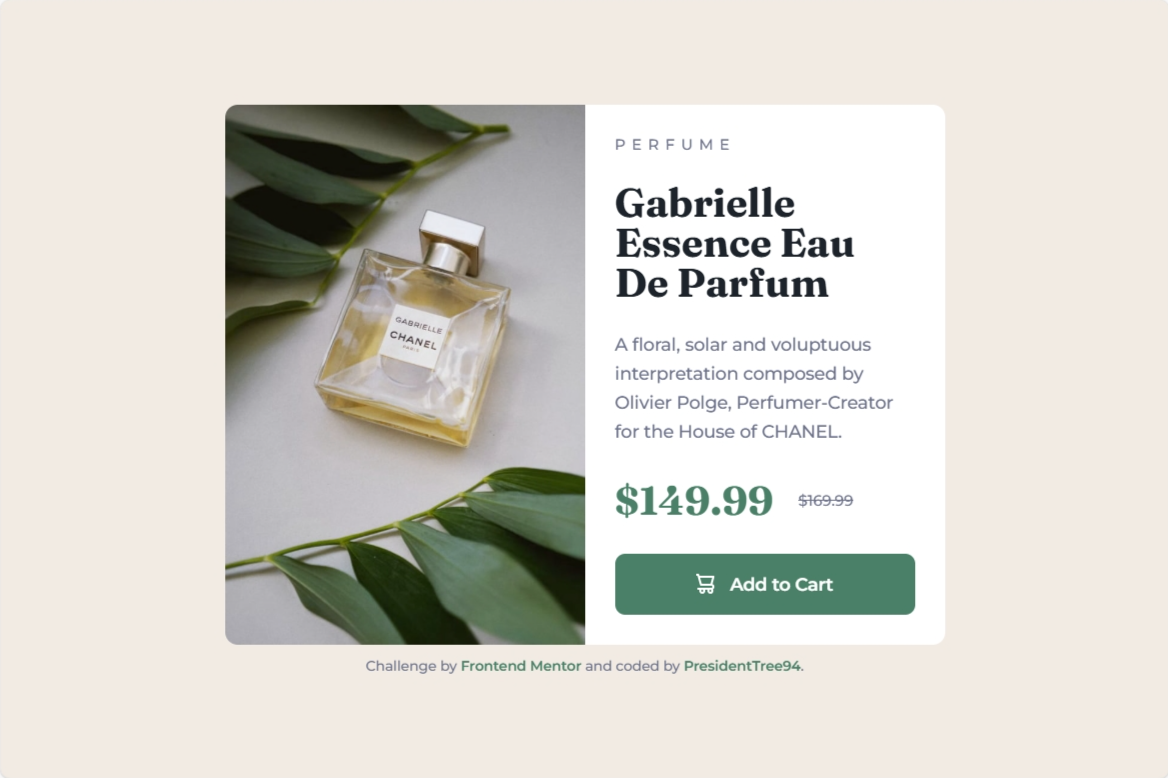
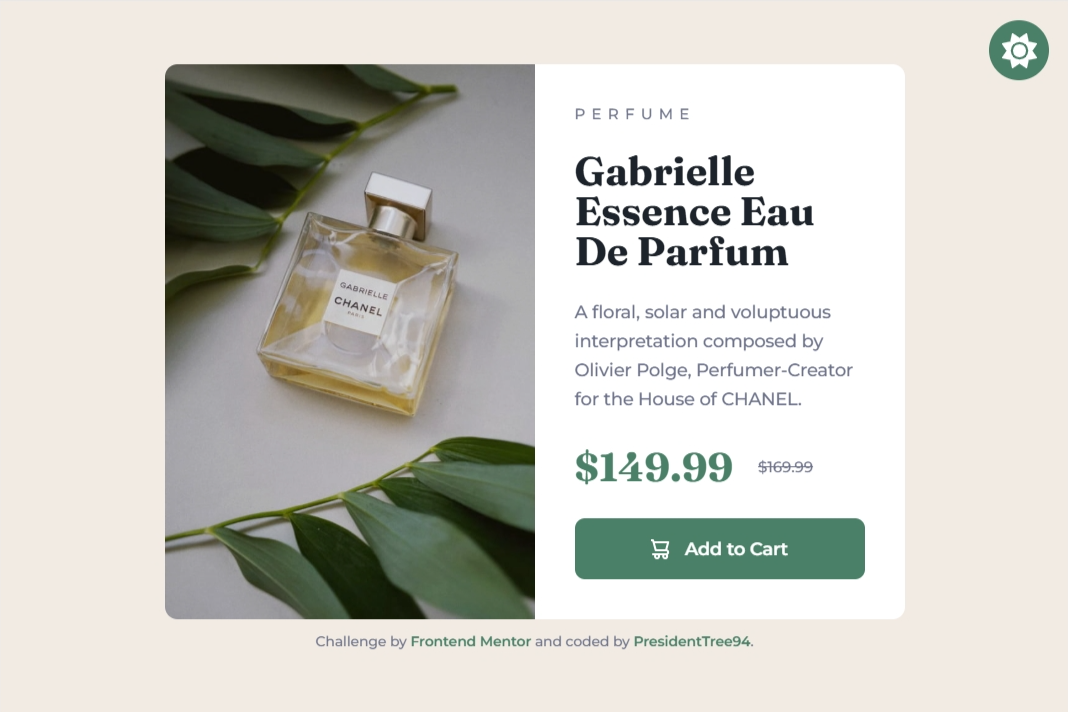
Add files via upload

Changed region(s): [[0.1545, 0.0927, 0.8652, 0.927], [0.5253, 0.2163, 0.7725, 0.4017], [0.927, 0.0309, 0.9888, 0.1236]]

diff --git a/alt-mode/toggle.js b/alt-mode/toggle.js
@@ -1,0 +1,54 @@
+//Find the toggle button and generate an empty SVG
+const toggleButton = document.getElementById("toggle");
+const icon = document.createElementNS("http://www.w3.org/2000/svg", "svg");
+icon.setAttribute("xmlns", "http://www.w3.org/2000/svg");
+const path = document.createElementNS("http://www.w3.org/2000/svg", "path");
+icon.appendChild(path);
+toggleButton.appendChild(icon);
+
+//Constants for the local storage key, mode class, and icons
+const ALT_MODE_KEY = "alt-mode";
+const ALT_MODE_CLASS = "altMode";
+const MOON_ICON = {
+  viewBox: "0 0 384 512",
+  path: "M223.5 32C100 32 0 132.3 0 256S100 480 223.5 480c60.6 0 115.5-24.2 155.8-63.4c5-4.9 6.3-12.5 3.1-18.7s-10.1-9.7-17-8.5c-9.8 1.7-19.8 2.6-30.1 2.6c-96.9 0-175.5-78.8-175.5-176c0-65.8 36-123.1 89.3-153.3c6.1-3.5 9.2-10.5 7.7-17.3s-7.3-11.9-14.3-12.5c-6.3-.5-12.6-.8-19-.8z"
+};
+const SUN_ICON = {
+  viewBox: "0 0 512 512",
+  path: "M361.5 1.2c5 2.1 8.6 6.6 9.6 11.9L391 121l107.9 19.8c5.3 1 9.8 4.6 11.9 9.6s1.5 10.7-1.6 15.2L446.9 256l62.3 90.3c3.1 4.5 3.7 10.2 1.6 15.2s-6.6 8.6-11.9 9.6L391 391 371.1 498.9c-1 5.3-4.6 9.8-9.6 11.9s-10.7 1.5-15.2-1.6L256 446.9l-90.3 62.3c-4.5 3.1-10.2 3.7-15.2 1.6s-8.6-6.6-9.6-11.9L121 391 13.1 371.1c-5.3-1-9.8-4.6-11.9-9.6s-1.5-10.7 1.6-15.2L65.1 256 2.8 165.7c-3.1-4.5-3.7-10.2-1.6-15.2s6.6-8.6 11.9-9.6L121 121 140.9 13.1c1-5.3 4.6-9.8 9.6-11.9s10.7-1.5 15.2 1.6L256 65.1 346.3 2.8c4.5-3.1 10.2-3.7 15.2-1.6zM160 256a96 96 0 1 1 192 0 96 96 0 1 1 -192 0zm224 0a128 128 0 1 0 -256 0 128 128 0 1 0 256 0z"
+};
+
+//Sets the icon to represent the mode depending on data-default
+function setIcon(isAltMode) {
+  const defaultMode = toggleButton.dataset.default;
+  const iconData = defaultMode === "moon" ? isAltMode ? SUN_ICON : MOON_ICON : 
+  defaultMode === "sun" ? isAltMode ? MOON_ICON : SUN_ICON : null;
+  icon.setAttribute("viewBox", iconData.viewBox);
+  path.setAttribute("d", iconData.path);
+}
+
+//Initializes the mode, sets the current one
+function initMode() {
+  const altMode = localStorage.getItem(ALT_MODE_KEY) === "true";
+
+  if (altMode) {
+    document.body.classList.add(ALT_MODE_CLASS);
+  } else {
+    document.body.classList.remove(ALT_MODE_CLASS);
+  }
+
+  setIcon(altMode);
+}
+
+//Toggles the mode, temporarily disabling transitions (except #toggle)
+function toggleMode() {
+  document.body.classList.add("disable-transitions");
+  const altMode = document.body.classList.toggle(ALT_MODE_CLASS);
+  localStorage.setItem(ALT_MODE_KEY, altMode);
+  setIcon(altMode);
+  void document.body.offsetWidth;
+  setTimeout(() => { document.body.classList.remove("disable-transitions"); }, 10);
+}
+
+initMode();
+toggleButton.addEventListener("click", toggleMode);

diff --git a/index.html b/index.html
@@ -4,14 +4,16 @@
   <meta charset="UTF-8">
   <meta name="viewport" content="width=device-width, initial-scale=1.0">
   <link rel="icon" type="image/png" sizes="32x32" href="./images/favicon-32x32.png">
+  <link rel="stylesheet" href="style.css">
+  <link rel="stylesheet" href="alt-mode/toggle-style.css">
   <link rel="preconnect" href="https://fonts.googleapis.com">
   <link rel="preconnect" href="https://fonts.gstatic.com" crossorigin>
   <link href="https://fonts.googleapis.com/css2?family=Fraunces:ital,opsz,wght@0,9..144,100..900;1,9..144,100..900&family=Montserrat:ital,wght@0,100..900;1,100..900&display=swap" rel="stylesheet">
-  <link rel="stylesheet" href="style.css">
   <title>Frontend Mentor | Product preview card component</title>
 </head>
 <body>
   <div class="container">
+    <div id="toggle" data-default="sun"></div>
     <main>
       <section>
         <picture>
@@ -34,5 +36,6 @@
       </footer>
     </main>
   </div>
+  <script src="alt-mode/toggle.js"></script>
 </body>
 </html>

diff --git a/style.css b/style.css
@@ -7,6 +7,13 @@
   --brunswickGreen: rgb(27, 65, 51);
 }
 
+.altMode {
+  --linen: rgb(192, 185, 177);
+  --white: rgb(28, 35, 43);
+  --gunmetal: rgb(255, 255, 255);
+  --brunswickGreen: rgb(85, 153, 128);
+}
+
 * {
   margin: 0;
   padding: 0;
@@ -30,6 +37,14 @@ body {
   justify-content: center;
   align-items: center;
   overflow: hidden;
+}
+
+#toggle {
+  background-color: var(--viridian);
+}
+
+svg {
+  fill: var(--white);
 }
 
 main {
@@ -117,6 +132,10 @@ button {
   padding: 1rem 0;
   font-weight: 600;
   transition: transform 0.3s ease;
+}
+
+.altMode button {
+  color: var(--gunmetal);
 }
 
 button img {

diff --git a/alt-mode/toggle-style.css b/alt-mode/toggle-style.css
@@ -1,0 +1,25 @@
+#toggle {
+  position: fixed;
+  top: 1rem;
+  right: 1rem;
+  border-radius: 100%;
+  display: flex;
+  justify-content: center;
+  align-items: center;
+  height: 3rem;
+  width: 3rem;
+  z-index: 1;
+  transition: transform 0.3s ease;
+}
+
+#toggle:hover {
+  cursor: pointer;
+}
+
+#toggle:active {
+  transform: scale(0.9);
+}
+
+svg {
+  height: 1.75rem;
+}

diff --git a/alt-mode/README.md b/alt-mode/README.md
@@ -1,0 +1,16 @@
+# Instructions for Light/Dark Mode
+These are the instructions for how to use Light/Dark Mode in a project. The script creates a SVG, `MOON_ICON` or `SUN_ICON`, and uses it to initialize the `#toggle` button. The default SVG is determined by the value set in the `data-default` attribute. The user can select the button to toggle the mode, which toggles `.altMode` on `body`, and the mode is saved in local storage to persist.
+
+## Requirements
+- The "alt-mode" folder and all its contents:
+  - toggle-style.css
+  - toggle.js
+
+## Steps
+1. Add a `<link>` to the HTML to the path of `toggle-style.css`, under the initial stylesheet.
+2. Add a `<script>` to the HTML to the path of `toggle.js`, just before the closing tag of the `body`.
+3. Add `<div id="toggle"></div>` to the HTML, where it can be placed in the top-right of the page.
+4. Add a `data-default` attribute to `#toggle`, and set it to "sun" or "moon."
+5. Assign colors to `#toggle` and the `svg` in the CSS.
+6. Add `.altMode` to the CSS and redefine the CSS color variables.
+7. Add `.disable-transitions *:not(#toggle) { transition: none !important; }` to the CSS if transitions conflict during mode switches.

diff --git a/README.md b/README.md
@@ -7,6 +7,9 @@ As part of the [Building responsive layouts](https://www.frontendmentor.io/learn
 ### Screenshot
 ![Screenshot of desktop version](images/screenshot.png)
 
+### Modifications
+I added Dark Mode to the website. The `alt-mode` folder contains a separate README explaining how it works. The button is located in the top-right corner of the page and scales down slightly when selected.
+
 ### Links
 - Solution URL: [Frontend Mentor Solution Page](https://www.frontendmentor.io/solutions/product-preview-card-component-504WGtIZmX)
 - Live Site URL: [GitHub Page](https://presidenttree94.github.io/product-preview-card-component/)
